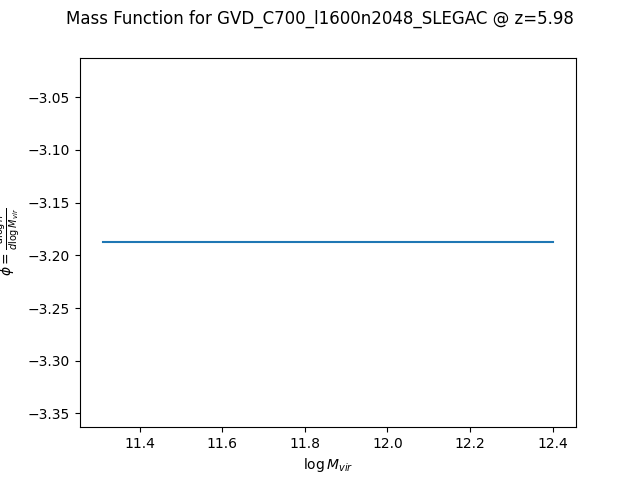
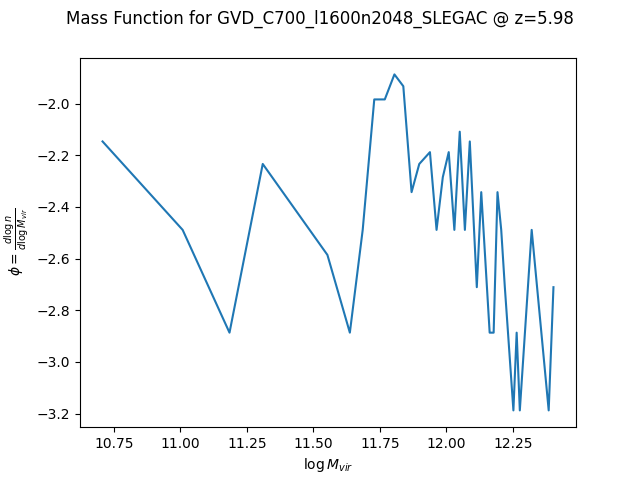
Squashed commit of the following:
commit c27d6b630987b5983f4ef86d7208cbbec6b71537
Author: Tiernan8r <tiernan8r@pm.me>
Date:   Mon Jul 4 11:48:14 2022 +0100

    plots from run so far

commit 7ee37cf475ffdade977fb8f1e4a6503480b827bd
Author: Tiernan8r <tiernan8r@pm.me>
Date:   Fri Jul 1 16:51:19 2022 +0100

    snippet to highlight code issue

diff --git a/code/snippets/integer_required.py b/code/snippets/integer_required.py
@@ -1,0 +1,13 @@
+import matplotlib.pyplot as plt
+import numpy as np
+import yt
+import yt.extensions.legacy
+
+# halo file 101 corresponds to z=0
+REDSHIFT_NUMBER = 22
+DATAFILE = "/disk12/legacy/GVD_C700_l1600n2048_SLEGAC/dm_gadget/rockstar/halos_{0:0>3}.0.bin"
+
+fname = DATAFILE.format(REDSHIFT_NUMBER)
+
+ds = yt.load(fname)
+ad = ds.all_data()
